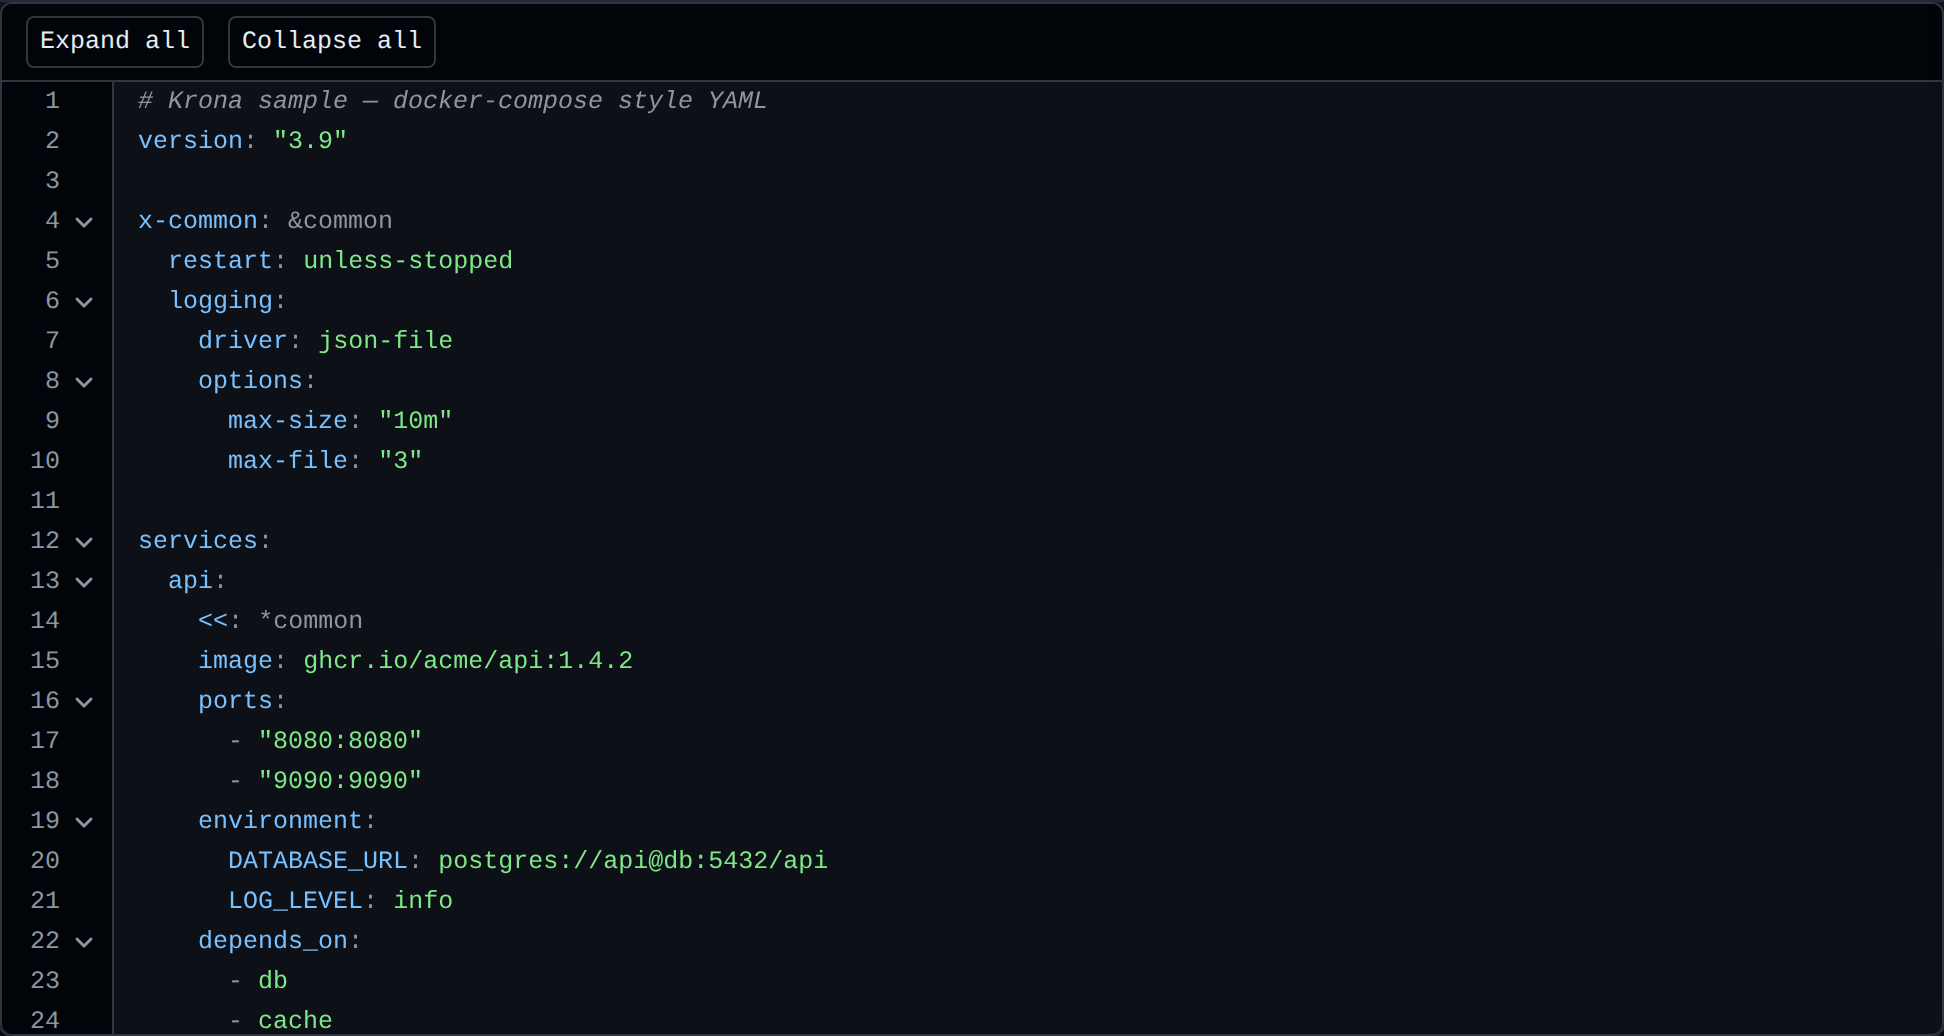
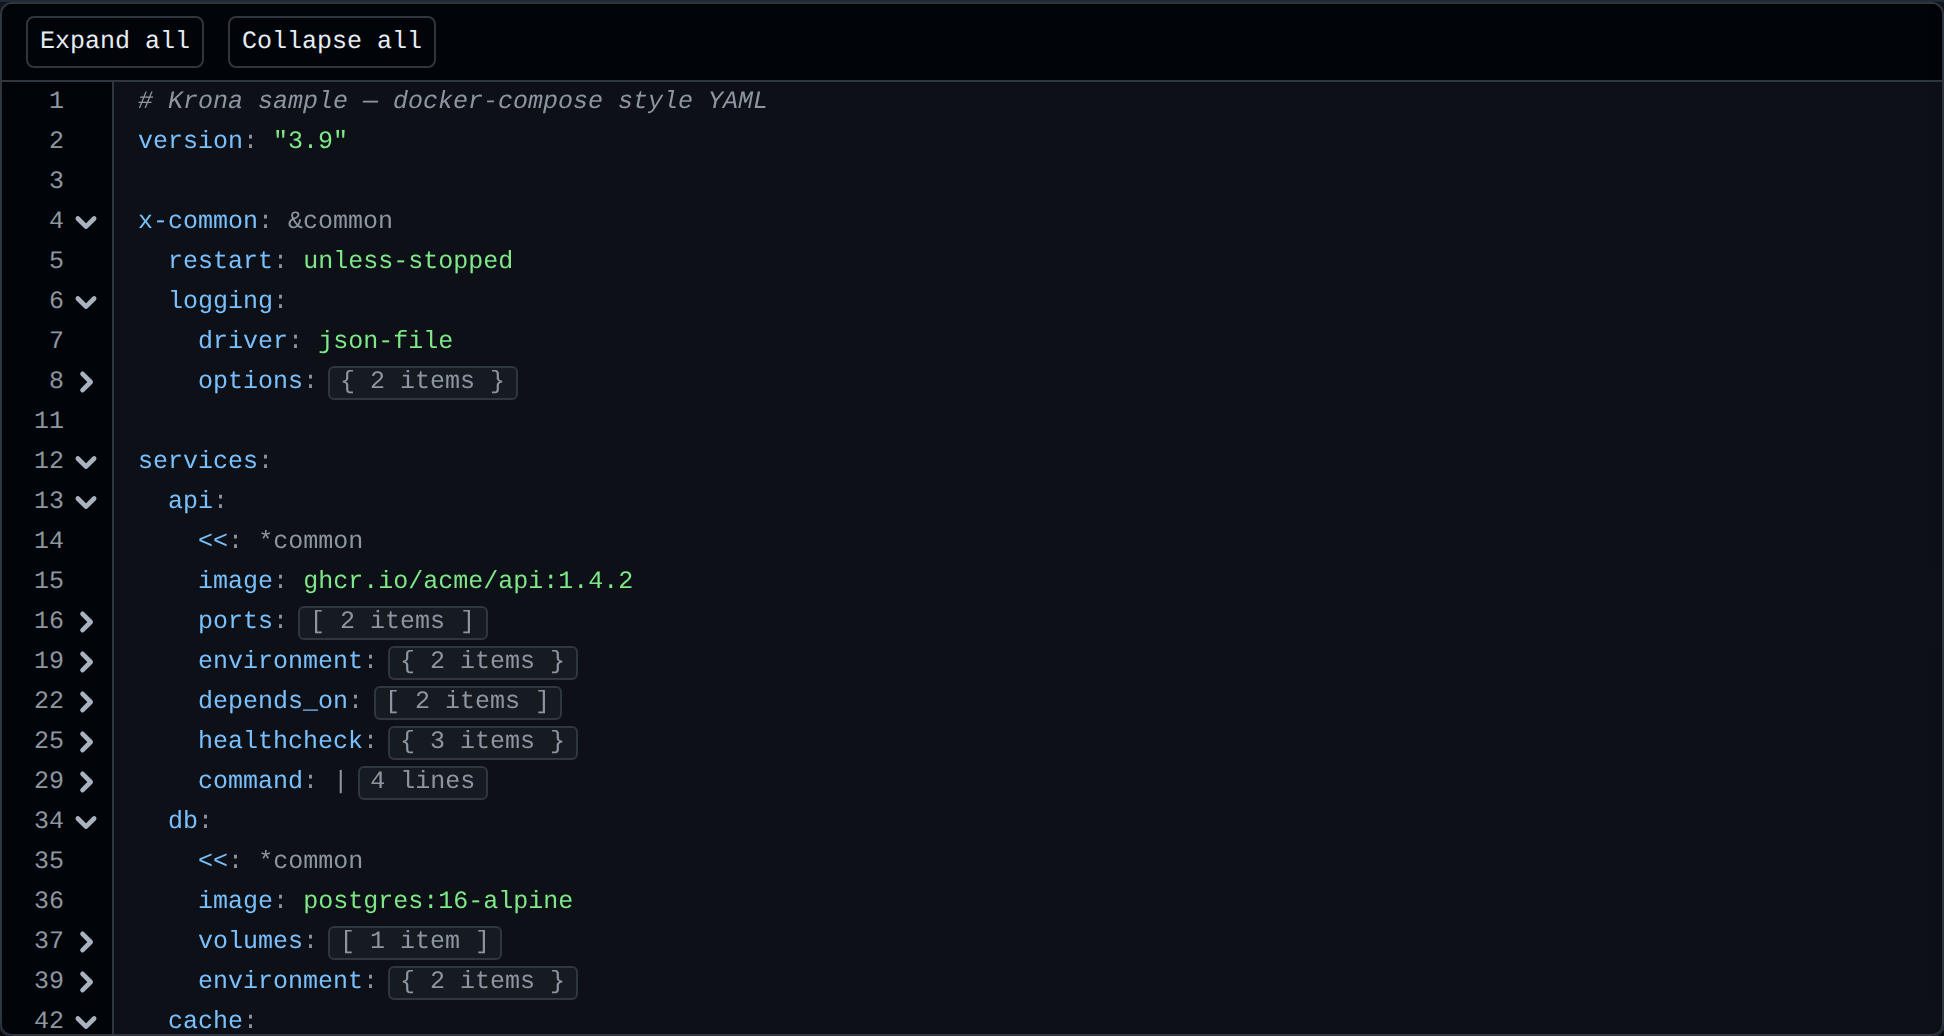
Make folding discoverable: the whole gutter cell folds, and the demo lands collapsed
Reported as "I still cannot see any way to fold blocks with a chevron" — and
the chevrons were there the whole time, which is exactly the problem. Measuring
instead of assuming showed the affordance, not the behaviour, was broken:

- the control was 16x16 px, a 12px hairline icon wedged between a line number
  and the code, where it reads as punctuation rather than as something to click;
- contrast was never the issue (6.9:1 in dark), so brightening alone would not
  have helped;
- and the demo landed fully expanded, so there was nothing collapsed on screen
  to suggest that collapsing was a thing at all.

The whole gutter cell is now the button: 55x20 instead of 16x16, four times the
target, with a hover state that lights the cell and turns the chevron accent
blue. Nothing else competes for a click in a read-only gutter, so there is no
conflict. The icon grew to 14px at stroke 2 and took its own `--krona-chevron`
token, since a control should not fade to the same weight as the line numbers
it sits between.

The demo now starts collapsed from depth 2, the way json-edit-react's does. That
single default is what makes the feature self-evident: `{ 3 items }` and
`[ 2 items ]` are on screen immediately, and the two chevron states are visible
side by side.

A component test asserts the control stays at least 40x16, so it cannot quietly
shrink back to an icon.

Claude-Session: https://claude.ai/code/session_01MzgVP2QrYxDCxFLoQWxHxU

diff --git a/packages/react/src/parts/Gutter.tsx b/packages/react/src/parts/Gutter.tsx
@@ -11,12 +11,12 @@ export interface KronaGutterProps {
 
 function Chevron() {
   return (
-    <svg viewBox="0 0 12 12" aria-hidden="true" focusable="false">
+    <svg className="krona-fold-chevron" viewBox="0 0 12 12" aria-hidden="true" focusable="false">
       <path
         d="M2.5 4.5 6 8l3.5-3.5"
         fill="none"
         stroke="currentColor"
-        strokeWidth="1.5"
+        strokeWidth="2"
         strokeLinecap="round"
         strokeLinejoin="round"
       />
@@ -69,31 +69,39 @@ const GutterBase = memo(function Gutter({
         }
         const range = lineIndex === null ? undefined : source.foldAt(lineIndex)
         const folded = range ? source.isFolded(range.startLine) : false
-        return (
-          <div
-            key={item.key}
-            className={`krona-row krona-row--${tone}`}
-            style={{ transform: `translateY(${item.start}px)` }}
-          >
+        const body = (
+          <>
             {showMarkers && MARKERS[tone] ? (
               <span className="krona-gutter-marker">{MARKERS[tone]}</span>
             ) : null}
             <span className="krona-gutter-number" style={{ minWidth: `${digits}ch` }}>
               {lineIndex === null ? '' : lineIndex + 1}
             </span>
-            {range ? (
-              <button
-                type="button"
-                className="krona-fold-toggle"
-                aria-expanded={!folded}
-                aria-label={folded ? labels.expandBlock : labels.collapseBlock}
-                onClick={() => source.toggleFold(range.startLine)}
-              >
-                <Chevron />
-              </button>
-            ) : (
-              <span className="krona-fold-spacer" />
-            )}
+            {range ? <Chevron /> : <span className="krona-fold-spacer" />}
+          </>
+        )
+        const style = { transform: `translateY(${item.start}px)` }
+
+        // A foldable line makes its whole gutter cell the control. A 16px
+        // chevron between a line number and the code reads as punctuation, not
+        // as something to click; the cell is a target you cannot miss, and
+        // nothing else competes for a click in a read-only gutter.
+        return range ? (
+          <button
+            key={item.key}
+            type="button"
+            className={`krona-row krona-row--${tone} krona-fold-toggle`}
+            style={style}
+            aria-expanded={!folded}
+            aria-label={folded ? labels.expandBlock : labels.collapseBlock}
+            title={folded ? labels.expandBlock : labels.collapseBlock}
+            onClick={() => source.toggleFold(range.startLine)}
+          >
+            {body}
+          </button>
+        ) : (
+          <div key={item.key} className={`krona-row krona-row--${tone}`} style={style}>
+            {body}
           </div>
         )
       })}

diff --git a/packages/react/src/theme/css.ts b/packages/react/src/theme/css.ts
@@ -24,6 +24,8 @@ export const KRONA_CSS = `:where(.krona) {
   --krona-border: #d8dee4;
   --krona-fg: #1f2328;
   --krona-fg-muted: #59636e;
+  --krona-chevron: #57606a;
+  --krona-chevron-hover: #0550ae;
 
   /* Tokens */
   --krona-token-key: #0550ae;
@@ -56,6 +58,8 @@ export const KRONA_CSS = `:where(.krona) {
   --krona-border: #30363d;
   --krona-fg: #e6edf3;
   --krona-fg-muted: #8d96a0;
+  --krona-chevron: #a8b3bf;
+  --krona-chevron-hover: #79c0ff;
 
   --krona-token-key: #79c0ff;
   --krona-token-string: #7ee787;
@@ -86,6 +90,8 @@ export const KRONA_CSS = `:where(.krona) {
     --krona-border: #30363d;
     --krona-fg: #e6edf3;
     --krona-fg-muted: #8d96a0;
+    --krona-chevron: #a8b3bf;
+    --krona-chevron-hover: #79c0ff;
 
     --krona-token-key: #79c0ff;
     --krona-token-string: #7ee787;
@@ -205,17 +211,20 @@ export const KRONA_CSS = `:where(.krona) {
   text-align: right;
 }
 
+/* The control is the whole gutter cell, not just the icon: a 16px chevron
+   wedged between a line number and the code reads as punctuation rather than
+   as something to click, and nothing else competes for a click in a read-only
+   gutter. */
 .krona-fold-toggle {
-  all: unset;
-  cursor: pointer;
-  width: 1rem;
-  height: 1rem;
-  display: inline-flex;
-  align-items: center;
-  justify-content: center;
-  border-radius: 3px;
+  appearance: none;
+  -webkit-appearance: none;
+  margin: 0;
+  border: 0;
+  background: transparent;
+  font: inherit;
   color: var(--krona-fg-muted);
-  flex: 0 0 auto;
+  cursor: pointer;
+  text-align: inherit;
 }
 
 .krona-fold-toggle:hover {
@@ -223,29 +232,37 @@ export const KRONA_CSS = `:where(.krona) {
   color: var(--krona-fg);
 }
 
+.krona-fold-toggle:hover .krona-fold-chevron {
+  color: var(--krona-chevron-hover);
+}
+
 .krona-fold-toggle:focus-visible {
   outline: 2px solid var(--krona-token-key);
-  outline-offset: -1px;
+  outline-offset: -2px;
 }
 
-.krona-fold-toggle svg {
-  width: 0.75rem;
-  height: 0.75rem;
-  transition: transform 80ms linear;
+.krona-fold-chevron {
+  width: 0.875rem;
+  height: 0.875rem;
+  flex: 0 0 auto;
+  color: var(--krona-chevron);
+  transition:
+    transform 80ms linear,
+    color 80ms linear;
 }
 
-.krona-fold-toggle[aria-expanded="false"] svg {
+.krona-fold-toggle[aria-expanded="false"] .krona-fold-chevron {
   transform: rotate(-90deg);
 }
 
 @media (prefers-reduced-motion: reduce) {
-  .krona-fold-toggle svg {
+  .krona-fold-chevron {
     transition: none;
   }
 }
 
 .krona-fold-spacer {
-  width: 1rem;
+  width: 0.875rem;
   flex: 0 0 auto;
 }
 

diff --git a/packages/react/src/theme/krona.css b/packages/react/src/theme/krona.css
@@ -14,6 +14,8 @@
   --krona-border: #d8dee4;
   --krona-fg: #1f2328;
   --krona-fg-muted: #59636e;
+  --krona-chevron: #57606a;
+  --krona-chevron-hover: #0550ae;
 
   /* Tokens */
   --krona-token-key: #0550ae;
@@ -46,6 +48,8 @@
   --krona-border: #30363d;
   --krona-fg: #e6edf3;
   --krona-fg-muted: #8d96a0;
+  --krona-chevron: #a8b3bf;
+  --krona-chevron-hover: #79c0ff;
 
   --krona-token-key: #79c0ff;
   --krona-token-string: #7ee787;
@@ -76,6 +80,8 @@
     --krona-border: #30363d;
     --krona-fg: #e6edf3;
     --krona-fg-muted: #8d96a0;
+    --krona-chevron: #a8b3bf;
+    --krona-chevron-hover: #79c0ff;
 
     --krona-token-key: #79c0ff;
     --krona-token-string: #7ee787;
@@ -195,17 +201,20 @@
   text-align: right;
 }
 
+/* The control is the whole gutter cell, not just the icon: a 16px chevron
+   wedged between a line number and the code reads as punctuation rather than
+   as something to click, and nothing else competes for a click in a read-only
+   gutter. */
 .krona-fold-toggle {
-  all: unset;
-  cursor: pointer;
-  width: 1rem;
-  height: 1rem;
-  display: inline-flex;
-  align-items: center;
-  justify-content: center;
-  border-radius: 3px;
+  appearance: none;
+  -webkit-appearance: none;
+  margin: 0;
+  border: 0;
+  background: transparent;
+  font: inherit;
   color: var(--krona-fg-muted);
-  flex: 0 0 auto;
+  cursor: pointer;
+  text-align: inherit;
 }
 
 .krona-fold-toggle:hover {
@@ -213,29 +222,37 @@
   color: var(--krona-fg);
 }
 
+.krona-fold-toggle:hover .krona-fold-chevron {
+  color: var(--krona-chevron-hover);
+}
+
 .krona-fold-toggle:focus-visible {
   outline: 2px solid var(--krona-token-key);
-  outline-offset: -1px;
+  outline-offset: -2px;
 }
 
-.krona-fold-toggle svg {
-  width: 0.75rem;
-  height: 0.75rem;
-  transition: transform 80ms linear;
+.krona-fold-chevron {
+  width: 0.875rem;
+  height: 0.875rem;
+  flex: 0 0 auto;
+  color: var(--krona-chevron);
+  transition:
+    transform 80ms linear,
+    color 80ms linear;
 }
 
-.krona-fold-toggle[aria-expanded="false"] svg {
+.krona-fold-toggle[aria-expanded="false"] .krona-fold-chevron {
   transform: rotate(-90deg);
 }
 
 @media (prefers-reduced-motion: reduce) {
-  .krona-fold-toggle svg {
+  .krona-fold-chevron {
     transition: none;
   }
 }
 
 .krona-fold-spacer {
-  width: 1rem;
+  width: 0.875rem;
   flex: 0 0 auto;
 }
 

diff --git a/packages/react/src/viewer/Viewer.test.tsx b/packages/react/src/viewer/Viewer.test.tsx
@@ -91,6 +91,22 @@ describe('Krona.Viewer', () => {
     await expect.poll(() => toggle?.getAttribute('aria-expanded')).toBe('true')
   })
 
+  it('gives the fold control a target you can actually hit', async () => {
+    const { screen } = await renderViewer()
+    await expect
+      .poll(() => screen.container.querySelectorAll('.krona-fold-toggle').length)
+      .toBeGreaterThan(0)
+    const toggle = screen.container.querySelector('.krona-fold-toggle') as HTMLElement
+    const box = toggle.getBoundingClientRect()
+    // This started life as a 16x16 icon wedged between a line number and the
+    // code, which read as punctuation rather than as a control. The whole
+    // gutter cell is the button now; the assertion is here so it cannot shrink
+    // back without someone noticing.
+    expect(box.width).toBeGreaterThanOrEqual(40)
+    expect(box.height).toBeGreaterThanOrEqual(16)
+    expect(toggle.tagName).toBe('BUTTON')
+  })
+
   it('reaches every fold chevron with Tab alone', async () => {
     const { screen } = await renderViewer()
     await expect.poll(() => screen.container.querySelectorAll('.krona-fold-toggle').length).toBe(3)

diff --git a/playground/src/App.tsx b/playground/src/App.tsx
@@ -40,7 +40,9 @@ export function App() {
   const [showDiagnostics, setShowDiagnostics] = useState(true)
   const [showMarkers, setShowMarkers] = useState(true)
   const [ignoreTrailingWhitespace, setIgnoreTrailingWhitespace] = useState(false)
-  const [collapsedDepth, setCollapsedDepth] = useState<number | undefined>(undefined)
+  // The demo lands partially collapsed on purpose: with everything expanded
+  // there is nothing to notice, and the fold controls read as decoration.
+  const [collapsedDepth, setCollapsedDepth] = useState<number | undefined>(2)
   const [lineHeight, setLineHeight] = useState(20)
   const [overscan, setOverscan] = useState(8)
   const [context, setContext] = useState(3)

diff --git a/README.ru.md b/README.ru.md
@@ -283,6 +283,7 @@ function plural(n: number, one: string, few: string, many: string): string {
 | --- | --- |
 | Раскладка | `--krona-height`, `--krona-line-height`, `--krona-font-family`, `--krona-font-size`, `--krona-gutter-width`, `--krona-padding-inline` |
 | Поверхности | `--krona-bg`, `--krona-bg-gutter`, `--krona-bg-hover`, `--krona-border`, `--krona-fg`, `--krona-fg-muted` |
+| Контролы | `--krona-chevron`, `--krona-chevron-hover` |
 | Токены | `--krona-token-key`, `-string`, `-number`, `-boolean`, `-null`, `-comment`, `-punctuation`, `-section` |
 | Diff | `--krona-added-bg`, `--krona-added-strong-bg`, `--krona-removed-bg`, `--krona-removed-strong-bg`, `--krona-spacer-bg`, `--krona-added-marker`, `--krona-removed-marker` |
 | Предупреждения | `--krona-unsafe-bg`, `--krona-unsafe-fg` |

diff --git a/README.md b/README.md
@@ -283,6 +283,7 @@ ancestor — no selector needs to be touched.
 | --- | --- |
 | Layout | `--krona-height`, `--krona-line-height`, `--krona-font-family`, `--krona-font-size`, `--krona-gutter-width`, `--krona-padding-inline` |
 | Surfaces | `--krona-bg`, `--krona-bg-gutter`, `--krona-bg-hover`, `--krona-border`, `--krona-fg`, `--krona-fg-muted` |
+| Controls | `--krona-chevron`, `--krona-chevron-hover` |
 | Tokens | `--krona-token-key`, `-string`, `-number`, `-boolean`, `-null`, `-comment`, `-punctuation`, `-section` |
 | Diff | `--krona-added-bg`, `--krona-added-strong-bg`, `--krona-removed-bg`, `--krona-removed-strong-bg`, `--krona-spacer-bg`, `--krona-added-marker`, `--krona-removed-marker` |
 | Warnings | `--krona-unsafe-bg`, `--krona-unsafe-fg` |
